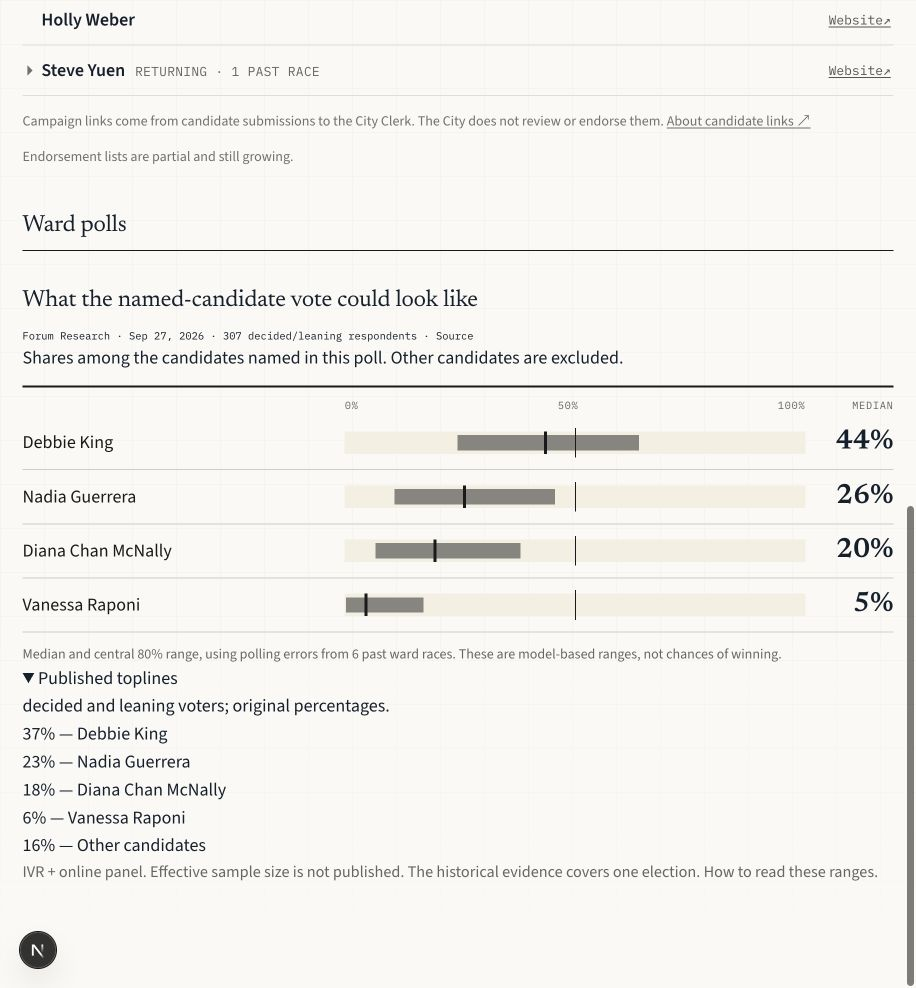
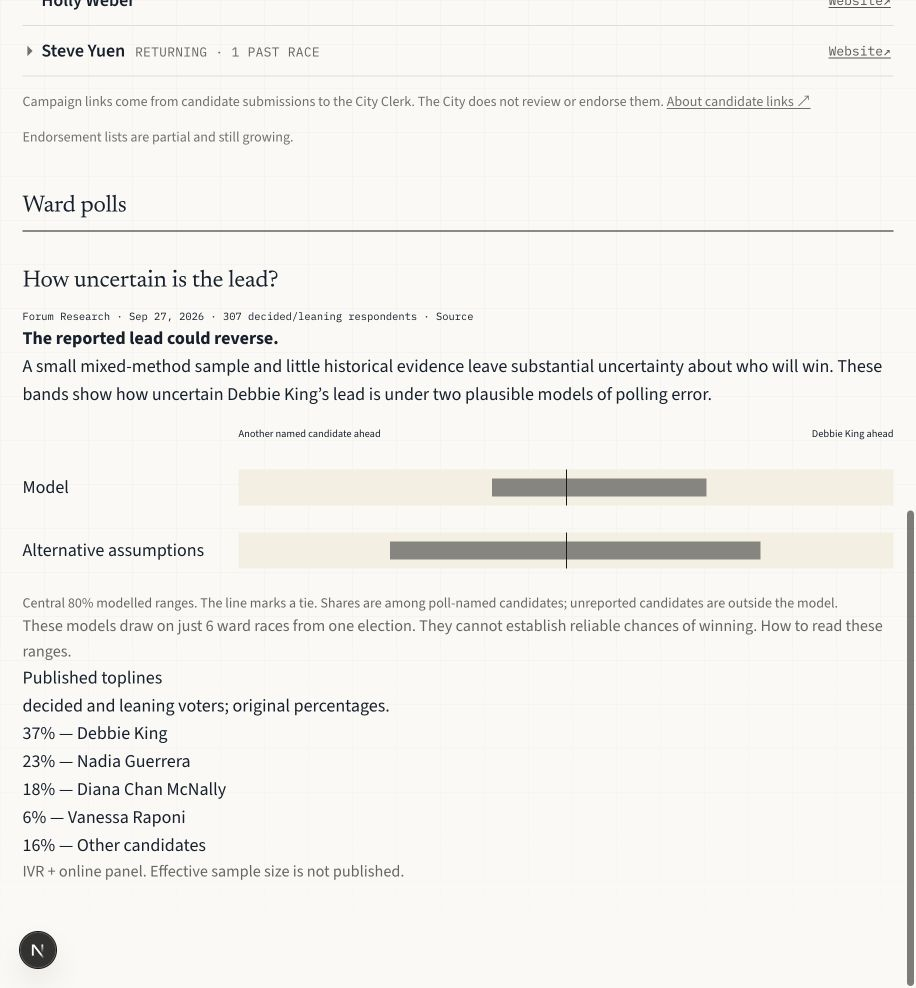
Show uncertain ward leads without prominent point estimates

diff --git a/src/components/ward-poll-context.tsx b/src/components/ward-poll-context.tsx
@@ -1,5 +1,4 @@
 import Link from "next/link";
-import { ShareRangeChart } from "@/components/share-range-chart";
 import { formatDate, formatSharePct } from "@/lib/format";
 import type { WardPoll, WardPollBenchmark } from "@/types/feeds";
 
@@ -13,9 +12,13 @@ export function WardPollContext({
   const context = poll.modelled_context;
   if (!context) return null;
   const base = context.unweighted_base ?? context.reported_base;
+  const ranges = context.leader.ranges;
+  const crossZero = ranges.filter(
+    (range) => range.lower <= 0 && range.upper >= 0,
+  ).length;
   return (
     <div className="ward-poll-context">
-      <h3>What the named-candidate vote could look like</h3>
+      <h3>How uncertain is the lead?</h3>
       <p className="font-mono">
         {poll.firm} · {formatDate(poll.date_conducted)}
         {base !== null && <> · {base} decided/leaning respondents</>}
@@ -27,45 +30,66 @@ export function WardPollContext({
         )}
       </p>
       <p>
-        Shares among the candidates named in this poll. Other candidates are
-        excluded.
+        <strong>
+          {crossZero === ranges.length
+            ? "The reported lead could reverse."
+            : crossZero
+              ? "The models disagree about how secure the lead is."
+              : "Both ranges favour the reported leader."}
+        </strong>
       </p>
-      <ShareRangeChart
-        rows={context.rows.map((row) => ({
-          id: row.candidate_id,
-          name: row.candidate_name,
-          point: row.median * 100,
-          lower: row.lower * 100,
-          upper: row.upper * 100,
-          color: "var(--text-strong)",
-        }))}
-        middleLabel="50%"
-        pointLabel="Median"
-        pointDescription="modelled median"
-        rangeDescription="central 80% modelled range"
-        caption={
-          <>
-            Median and central 80% range, using polling errors from{" "}
-            {benchmark.contest_count} past ward races. These are model-based
-            ranges, not chances of winning.
-          </>
-        }
-      />
-      <details>
-        <summary>Published toplines</summary>
-        <p>{poll.denominator}; original percentages.</p>
-        <ul>
-          {poll.candidates.map((candidate) => (
-            <li key={candidate.candidate_id}>
-              {formatSharePct(candidate.share)} — {candidate.candidate_name}
-            </li>
-          ))}
-        </ul>
-      </details>
+      <p>
+        A small mixed-method sample and little historical evidence leave substantial
+        uncertainty about who will win. These bands show how uncertain {context.leader.candidate_name}’s lead is under two plausible models of polling error.
+      </p>
+      <div className="ward-lead-chart">
+        <div className="ward-lead-chart__axis" aria-hidden="true">
+          <span />
+          <div>
+            <span>Another named candidate ahead</span>
+            <span>{context.leader.candidate_name} ahead</span>
+          </div>
+        </div>
+        {ranges.map((range, index) => (
+          <div className="ward-lead-chart__row" key={range.model}>
+            <span>{index === 0 ? "Model" : "Alternative assumptions"}</span>
+            <span
+              className="ward-lead-chart__track"
+              role="img"
+              aria-label={`${context.leader.candidate_name}'s lead over the strongest other named candidate: ${index === 0 ? "model" : "alternative assumptions"}, central 80% range ${(range.lower * 100).toFixed(1)} to ${(range.upper * 100).toFixed(1)} percentage points`}
+            >
+              <span
+                className="ward-lead-chart__band"
+                style={{
+                  left: `${(range.lower + 1) * 50}%`,
+                  width: `${(range.upper - range.lower) * 50}%`,
+                }}
+              />
+              <span className="ward-lead-chart__zero" />
+            </span>
+          </div>
+        ))}
+        <p className="forecast-caption">
+          Central 80% modelled ranges. The line marks a tie. Shares are among
+          poll-named candidates; unreported candidates are outside the model.
+        </p>
+      </div>
       <p className="ward-poll-context__note">
-        {poll.methodology}. Effective sample size is not published. The
-        historical evidence covers one election.{" "}
+        These models draw on just {benchmark.contest_count} ward races from one
+        election. They cannot establish reliable chances of winning.{" "}
         <Link href="/how-it-works/#ward-polls">How to read these ranges</Link>.
+      </p>
+      <h4>Published toplines</h4>
+      <p>{poll.denominator}; original percentages.</p>
+      <ul>
+        {poll.candidates.map((candidate) => (
+          <li key={candidate.candidate_id}>
+            {formatSharePct(candidate.share)} — {candidate.candidate_name}
+          </li>
+        ))}
+      </ul>
+      <p className="ward-poll-context__note">
+        {poll.methodology}. Effective sample size is not published.
       </p>
     </div>
   );

diff --git a/src/app/how-it-works/page.tsx b/src/app/how-it-works/page.tsx
@@ -606,7 +606,7 @@ export default async function HowItWorksPage() {
       <QuestionSection
         id="ward-polls"
         title="How much weight should I put on a ward poll?"
-        answer="The model allows for large polling misses. Its historical evidence is limited."
+        answer="A reported lead can disappear under plausible polling error. These polls do not settle who will win."
       >
         <p>
           The ward charts model votes among the candidates each poll names. We divide
@@ -617,8 +617,10 @@ export default async function HowItWorksPage() {
         <p>
           A joint statistical model learns how far these relative shares have moved
           between a poll and the result. Each simulated result totals 100% across the
-          named candidates. The chart shows the median and central 80% range for each
-          person, including uncertainty in the size of historical polling error.
+          named candidates. The chart follows the poll’s leader against the strongest other named
+          candidate in each simulation. Its central 80% lead ranges include uncertainty
+          in the size of historical polling error. A range crossing the tie line includes
+          a different candidate ahead.
         </p>
         {benchmark && <p>
           The evidence is {benchmark.contest_count} ward races from one pollster in

diff --git a/src/lib/feeds.ts b/src/lib/feeds.ts
@@ -984,6 +984,15 @@ function validWardContext(poll: unknown, benchmark: unknown): boolean {
   const named = poll.candidates.filter(
     (candidate) => isRecord(candidate) && candidate.is_residual === false,
   );
+  const leader = context.leader;
+  if (!isRecord(leader) || !Array.isArray(leader.ranges) || leader.ranges.length !== 2 ||
+    leader.ranges[0]?.model !== "dirichlet" || leader.ranges[1]?.model !== "logistic_normal" ||
+    !leader.ranges.every((range) => isRecord(range) && typeof range.lower === "number" && typeof range.upper === "number" &&
+      Number.isFinite(range.lower) && Number.isFinite(range.upper) && range.lower >= -1 && range.upper <= 1 && range.lower <= range.upper)) return false;
+  const ordered = [...named].sort((a,b) => (isRecord(b) ? Number(b.share) : 0) - (isRecord(a) ? Number(a.share) : 0));
+  if (!isRecord(ordered[0]) || !isRecord(ordered[1]) || leader.candidate_id !== ordered[0].candidate_id ||
+    leader.candidate_name !== ordered[0].candidate_name || typeof leader.reported_lead !== "number" ||
+    Math.abs(leader.reported_lead - (Number(ordered[0].share) - Number(ordered[1].share))) > 1e-9) return false;
   return (
     named.length === context.rows.length &&
     new Set(

diff --git a/src/app/globals.css b/src/app/globals.css
@@ -4550,3 +4550,15 @@ body {
 .ward-poll-context > h3 { font-size: var(--type-heading); margin-bottom: 0.5rem; }
 .ward-poll-context > .font-mono { font-size: var(--type-diagram); }
 .ward-poll-context__note { font-size: var(--type-body-small); color: var(--text-soft); }
+
+.ward-lead-chart { margin-top: 1rem; }
+.ward-lead-chart__axis, .ward-lead-chart__row { display: grid; grid-template-columns: 11rem minmax(0, 1fr); gap: 1rem; }
+.ward-lead-chart__axis { font-size: var(--type-diagram); padding-bottom: .75rem; }
+.ward-lead-chart__axis > div { display: flex; justify-content: space-between; gap: 1rem; }
+.ward-lead-chart__row { padding: .75rem 0; border-top: 1px solid var(--line-soft); align-items: center; }
+.ward-lead-chart__track { height: 2rem; position: relative; background: var(--muted); }
+.ward-lead-chart__band { position: absolute; height: 1rem; top: .5rem; background: var(--text-strong); opacity: .5; }
+.ward-lead-chart__zero { position: absolute; left: 50%; top: 0; bottom: 0; border-left: 1px solid var(--text-strong); }
+@media (max-width: 600px) {
+  .ward-lead-chart__axis, .ward-lead-chart__row { grid-template-columns: 7rem minmax(0, 1fr); gap: .5rem; }
+}

diff --git a/src/components/ward-poll-context.test.tsx b/src/components/ward-poll-context.test.tsx
@@ -12,14 +12,14 @@ describe("ward poll context", () => {
     render(<WardPollContext poll={poll} benchmark={benchmark} />);
     expect(
       screen.getByRole("img", {
-        name: "Debbie King: modelled median 44.0%, central 80% modelled range 21.0% to 63.0%",
+        name: "Opponent's lead over the strongest other named candidate: model, central 80% range -20.0 to 40.0 percentage points",
       }),
     ).not.toBeNull();
     expect(screen.getAllByRole("img")).toHaveLength(2);
     expect(screen.getByText(/307 decided\/leaning respondents/)).not.toBeNull();
     expect(screen.getByText(/16% — Other candidates/)).not.toBeNull();
     expect(
-      screen.getByText(/Shares among the candidates named in this poll/),
+      screen.getByText(/The reported lead could reverse/),
     ).not.toBeNull();
     expect(
       screen

diff --git a/src/components/ward-poll-context.fixture.ts b/src/components/ward-poll-context.fixture.ts
@@ -71,6 +71,15 @@ export const poll: WardPoll = {
     },
   ],
   modelled_context: {
+    leader: {
+      candidate_id: "opponent",
+      candidate_name: "Opponent",
+      reported_lead: 0.1,
+      ranges: [
+        { model: "dirichlet", lower: -0.2, upper: 0.4 },
+        { model: "logistic_normal", lower: -0.4, upper: 0.6 },
+      ],
+    },
     denominator: "named_candidates",
     interval_mass: 0.8,
     reading_id: "r",

diff --git a/src/types/feeds.ts b/src/types/feeds.ts
@@ -596,6 +596,7 @@ export interface WardPollCandidate {
 }
 
 export interface WardPollModelContext {
+  leader: { candidate_id: string; candidate_name: string; reported_lead: number; ranges: { model: "dirichlet" | "logistic_normal"; lower: number; upper: number }[] };
   denominator: "named_candidates";
   interval_mass: 0.8;
   reading_id: string;
